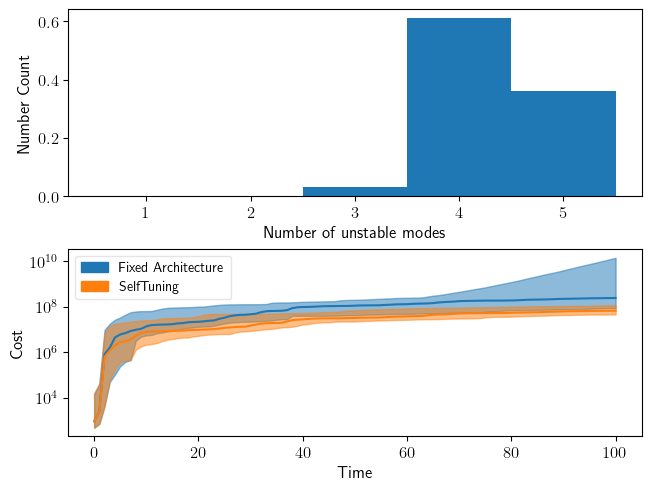
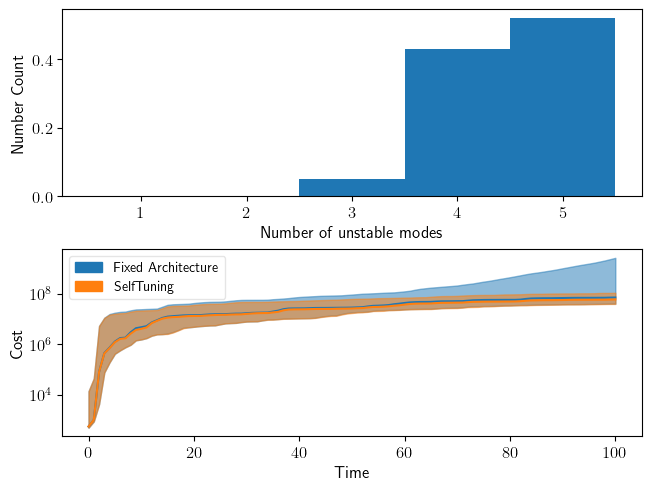
Code dump

diff --git a/greedy_architecture_combined.py b/greedy_architecture_combined.py
@@ -6,6 +6,7 @@ import scipy as scp
 from copy import deepcopy as dc
 import shelve
 import os
+import socket
 from tqdm import tqdm
 from shutil import rmtree
 import matplotlib
@@ -34,8 +35,11 @@ matplotlib.rcParams['text.usetex'] = True
 matplotlib.rcParams['savefig.bbox'] = 'tight'
 matplotlib.rcParams['savefig.format'] = 'pdf'
 
-# datadump_folder_path = 'C:/Users/kxg161630/Box/KarthikGanapathy_Research/SpeedyGreedyAlgorithm/DataDump/'
-datadump_folder_path = 'D:/Box/KarthikGanapathy_Research/SpeedyGreedyAlgorithm/DataDump/'
+if socket.gethostname() == 'melap257805':
+    datadump_folder_path = 'C:/Users/kxg161630/Box/KarthikGanapathy_Research/SpeedyGreedyAlgorithm/DataDump/'
+else:
+    datadump_folder_path = 'D:/Box/KarthikGanapathy_Research/SpeedyGreedyAlgorithm/DataDump/'
+
 image_save_folder_path = 'Images/'
 
 
@@ -668,6 +672,8 @@ class System:
         ax['x'].set_ylabel(r'$|x_t|_'+str(v_norm)+'$')
         ax['error'].set_ylabel(r'$|x_t - \hat{x}_t|_'+str(v_norm)+'$')
         ax['x'].tick_params(axis="x", labelbottom=False)
+        ax['x'].ticklabel_format(axis='y', style='sci', scilimits=(-3, 3))
+        ax['error'].ticklabel_format(axis='y', style='sci', scilimits=(-3, 3))
 
         if ax_in is None:
             ax['error'].set_xlabel('Time')

diff --git a/casetest_statistics_multi.py b/casetest_statistics_multi.py
@@ -2,6 +2,7 @@ import os
 from time import sleep
 
 # import scipy.stats
+from copy import deepcopy as dc
 from tqdm import tqdm
 import greedy_architecture_combined as gac
 from multiprocessing import Pool
@@ -9,8 +10,8 @@ import numpy as np
 
 
 def sys_gen():
-    n = 30
-    rho = 5
+    n = 20
+    rho = 3
     Tp = 10
     n_arch = 5
     n_arch_B = n_arch
@@ -30,6 +31,7 @@ def sys_gen():
     # Architecture selection costs
     S.architecture_cost_update({'R2': 0, 'R3': 0})
     S.model_rename()
+    S = dc(gac.greedy_simultaneous(S)['work_set'])
     return S
 
 

diff --git a/casetest_greedy_architecture_combined_multistep.py b/casetest_greedy_architecture_combined_multistep.py
@@ -4,7 +4,7 @@ from copy import deepcopy as dc
 if __name__ == "__main__":
 
     n = 50
-    rho = 3
+    rho = 6
     Tp = 10
     n_arch = 5
 
@@ -21,8 +21,8 @@ if __name__ == "__main__":
 
     # # Model update:
     # S.simulation_parameters['T_predict'] = 30
-    S.rescale_dynamics(7)
-    S.model_rename()
+    # S.rescale_dynamics(7)
+    # S.model_rename()
 
     print('Optimizing design-time architecture')
     S = dc(gac.greedy_simultaneous(S)['work_set'])

diff --git a/casetest_model_gen.py b/casetest_model_gen.py
@@ -7,7 +7,7 @@ if __name__ == "__main__":
     print('Model Generation Parameters')
 
     n = 50
-    rho = 3
+    rho = 6
     Tp = 10
     n_arch = 5
     n_arch_B = n_arch

diff --git a/casetest_plot.py b/casetest_plot.py
@@ -3,7 +3,7 @@ import greedy_architecture_combined as gac
 if __name__ == "__main__":
 
     n = 50
-    rho = 7
+    rho = 6
     Tp = 10
     n_arch = 5
 
